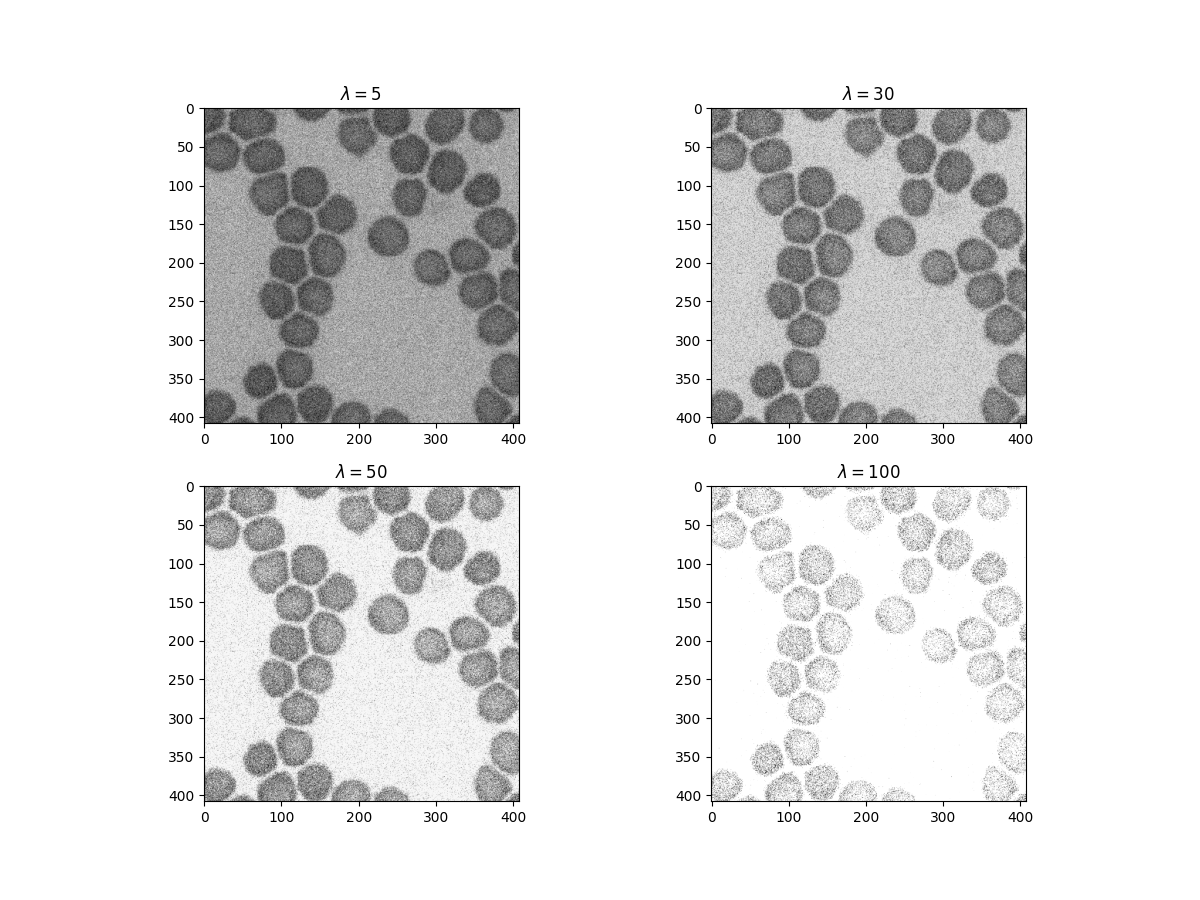
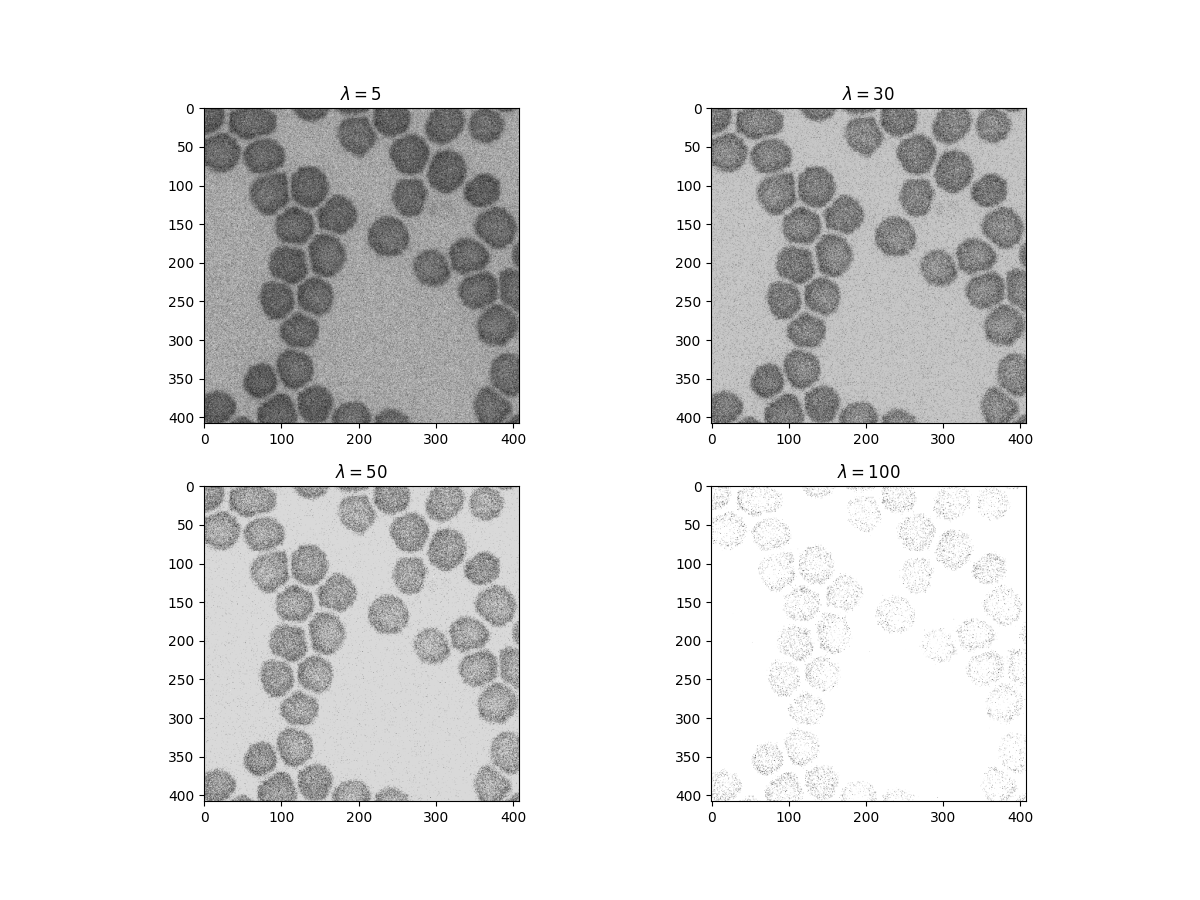
L1norm document update

diff --git a/sparse/regularization_l1/l1_reg_splitbregman.py b/sparse/regularization_l1/l1_reg_splitbregman.py
@@ -19,25 +19,25 @@ def main():
     this_file_path = os.path.dirname(sys.argv[0])
     img_path = this_file_path+"/data/origin_l1norm.jpg"
     img_load = cv2.imread(img_path)
-    I_t = cv2.cvtColor(img_load, cv2.COLOR_RGB2GRAY)
+    I_origin = cv2.cvtColor(img_load, cv2.COLOR_RGB2GRAY)
 
-    I = lib.add_noise(I_t)
+    I_noise = lib.add_noise(I_origin)
 
     LAMBDA = 50 ## 正則化パラメータ
-    THRE  = 200 ## だいたい画素値200 くらいが background
+    mean = np.array(I_origin).flatten().mean()   
+    THRE  = mean #255#0 #255:background=white, 0:background=black.
+    print(f"Mean:{THRE}")
 
-    B = I - THRE
-    t = np.sign(B)*B - LAMBDA 
-    I_reconst = t*(t>0)*np.sign(B) + THRE
+    I_reconst = SplitBregman_L1(I_noise,LAMBDA,THRE)
 
     plt.figure(figsize=[9,3])
     plt.subplot(1, 3, 1)
     plt.gray()
-    plt.imshow(I_t)
+    plt.imshow(I_origin)
     plt.title("Original")
     plt.subplot(1,3,2)
     plt.gray()
-    plt.imshow(I)
+    plt.imshow(I_noise)
     plt.title("Noisy")
     plt.subplot(1,3,3)
     plt.gray()
@@ -46,14 +46,22 @@ def main():
     plt.savefig(this_file_path+"/data/L1_reconst.png")
     plt.close()
 
+    plt.figure()
+    plt.subplot(2,1,1)
+    plt.plot(I_noise[50,:])
+    plt.ylim(0,250)
+    plt.subplot(2,1,2)
+    plt.plot(I_reconst[50,:])
+    plt.ylim(0,250)
+    plt.savefig(this_file_path+"/data/comp_line.png")
+    plt.close()
+
     LAMBDA_LIST = [5, 30, 50, 100]
-    THRE  = 200
+    #THRE  = 200
     I_LIST = []
     plt.figure(figsize=[12,9])
     for Lambda in LAMBDA_LIST:
-        B = I - THRE
-        t = np.sign(B)*B - Lambda
-        I_reconst = t*(t>0)*np.sign(B) + LAMBDA
+        I_reconst = SplitBregman_L1(I_noise,Lambda,THRE)
         I_LIST.append(I_reconst)
 
     for i in range(len(LAMBDA_LIST)):
@@ -62,6 +70,12 @@ def main():
         plt.imshow(I_LIST[i])
         plt.title("$\lambda = $" + str(LAMBDA_LIST[i]))
     plt.savefig(this_file_path+"/data/L1_param.png")
+
+def SplitBregman_L1(I_noise,LAMBDA,THRE):
+    B = I_noise - THRE
+    t = np.sign(B)*B - LAMBDA 
+    I_reconst = t*(t>0)*np.sign(B) + THRE
+    return I_reconst
 
 if __name__ == "__main__":
     main()

diff --git a/sparse/regularization_l1/L1_splitbregman.md b/sparse/regularization_l1/L1_splitbregman.md
@@ -1,0 +1,45 @@
+
+スパースモデリングによるL1ノルム最適化の際に最小化する式は
+$$F=\frac{1}{2}|I_{out}-I_{in}|^2-\lambda |I_{out}|_1$$
+である. $\lambda$は正則化パラメータで基準値(後の$\mathrm{Thr}$)へ近づける強度係数となっている. 第一項で入力-出力間の差分, 第二項がL1ノルムで0に近い解を出しやすくする効果がある. 基準を0ではなく$Thr$にしたい時は
+$$\begin{equation}
+F=\frac{1}{2}|I_{out}-I_{in}|^2-\lambda |I_{out}-\mathrm{Thr}|_1
+\end{equation}$$
+のように第二項を変形する. 例えば白色の画素をbackgroundにしたい場合は$Thr=255$となる.
+
+画像のノイズ除去を行う場合, i番目の画素を
+$$
+\begin{aligned}
+a_ie_i&=I_{out}-\mathrm{Thr}\ (\ a_i\ge0, e_i=\mathrm{sgn}(b_i)\ )\\b_i&=I_{in}-\mathrm{Thr}
+\end{aligned}
+$$
+のように表すことにする. このとき, $a_i$を最適化することが$I_{out}$の最適化になることが分かる. これを用いて(1)式を計算すると
+$$\begin{aligned}
+F&=\frac{1}{2}\sum_i(a_i-t_i)^2+\lambda\sum_i(|a_i+\mathrm{Thr}|-a_i)+\lambda\sum_i|b_i|+\frac{1}{2}\sum_i\lambda^2
+\\&=\frac{1}{2}\sum_i(a_i-t_i)^2+\lambda\sum_i\mathrm{Thr}+\lambda\sum_i|b_i|+\frac{1}{2}\sum_i\lambda^2
+\\&(\because t_i=|b_i|-\lambda, \mathrm{Thr}\geq0, a_i\geq0)
+\end{aligned}
+$$
+となる. ただし画像のノイズ除去などスパース化したい物理量が輝度値の場合, $\mathrm{Thr}$が正の値になることを暗に仮定しているため負の値を含む場合は陽に計算できないことに注意する.
+
+以上より
+$$
+\begin{equation}
+F=\frac{1}{2}\sum_i(a_i-t_i)^2+\mathrm{const}
+\end{equation}
+$$
+となり, $F$を最小化する解は
+$$
+a_i = \begin{cases}
+    t_i & (t_i \ge 0) \\
+    0 & (t_i < 0)
+  \end{cases}
+$$
+となり,
+$$
+I_{out, i} = \begin{cases}
+    t_i\mathrm{sgn}b_i+\mathrm{Thr}& (t_i \ge 0) \\
+    \mathrm{Thr} & (t_i < 0)
+  \end{cases}
+$$
+がスパースモデリングによる再構成結果となる.
